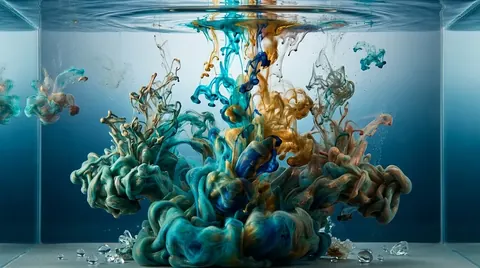
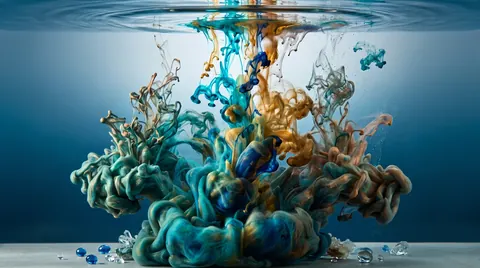
feat(themes): Inkwell 1.0.1 with a full-resolution wallpaper
The new photo is a native 2000 px render without the tank walls, so it
no longer needs upscaling; WebP q80 (method 6) brings the wallpaper from
218 KB to 174 KB at no visible cost. The palette is unchanged.

diff --git a/README.md b/README.md
@@ -86,7 +86,7 @@ publisher, category, feature bullets, requirements, and the release notes for th
 | **Word Guess** (`host.tend.wordle`) | 1.1.0 | games | Guess the hidden word in six tries |
 | **Nebula** (`host.tend.theme.nebula`) | 1.0.0 | themes | Theme pack: orchid starlight and teal dust across a violet spiral galaxy |
 | **Synthwave** (`host.tend.theme.synthwave`) | 1.0.0 | themes | Theme pack: gold contrails over a neon wireframe horizon |
-| **Inkwell** (`host.tend.theme.inkwell`) | 1.0.0 | themes | Theme pack: cyan, cobalt and gold ink blooming in a glass tank |
+| **Inkwell** (`host.tend.theme.inkwell`) | 1.0.1 | themes | Theme pack: cyan, cobalt and gold ink blooming beneath rippling water |
 | **Prism** (`host.tend.theme.prism`) | 1.0.0 | themes | Theme pack: a tangerine cube and amber light beams in a quiet concrete gallery |
 | **Skyline** (`host.tend.theme.skyline`) | 1.0.0 | themes | Theme pack: sapphire night over a riverside city, window light glowing gold |
 

diff --git a/extensions/host.tend.theme.inkwell/README.md b/extensions/host.tend.theme.inkwell/README.md
@@ -1,6 +1,6 @@
 # Inkwell theme pack
 
-Cyan, cobalt and gold ink blooming in a glass tank.
+Cyan, cobalt and gold ink blooming beneath rippling water.
 
 A TEND theme pack: a declarative `theme` block in `extension.json` plus a wallpaper and a
 thumbnail. It contains no code and asks for no permissions. Enable it in **Settings -> Extensions**,
